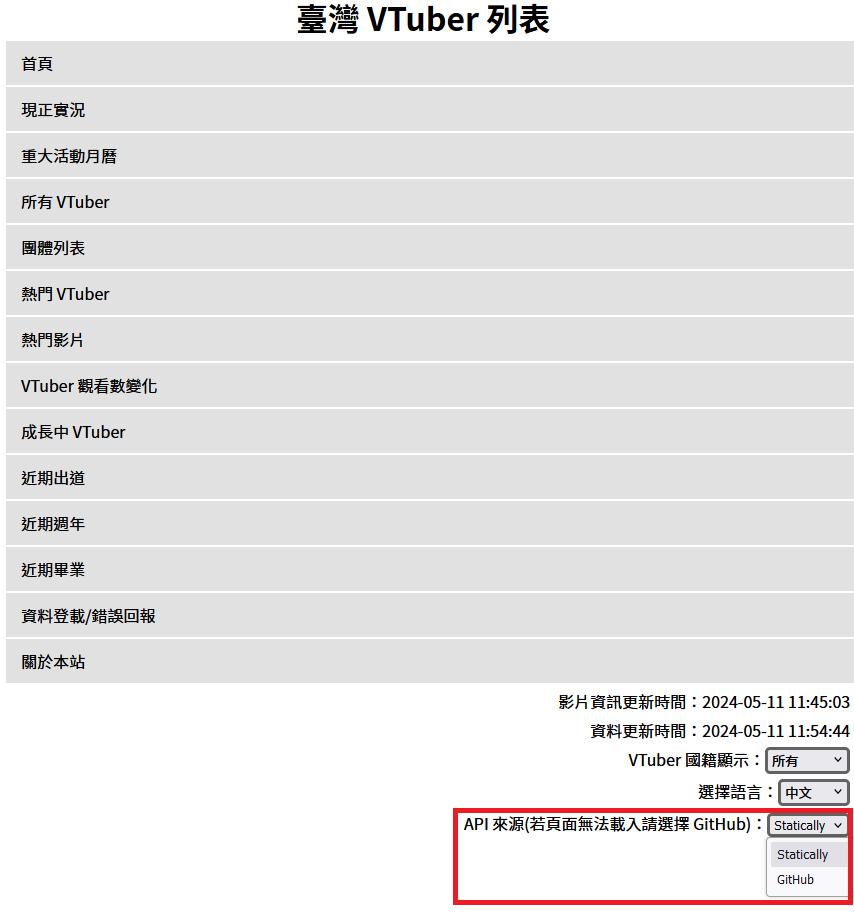
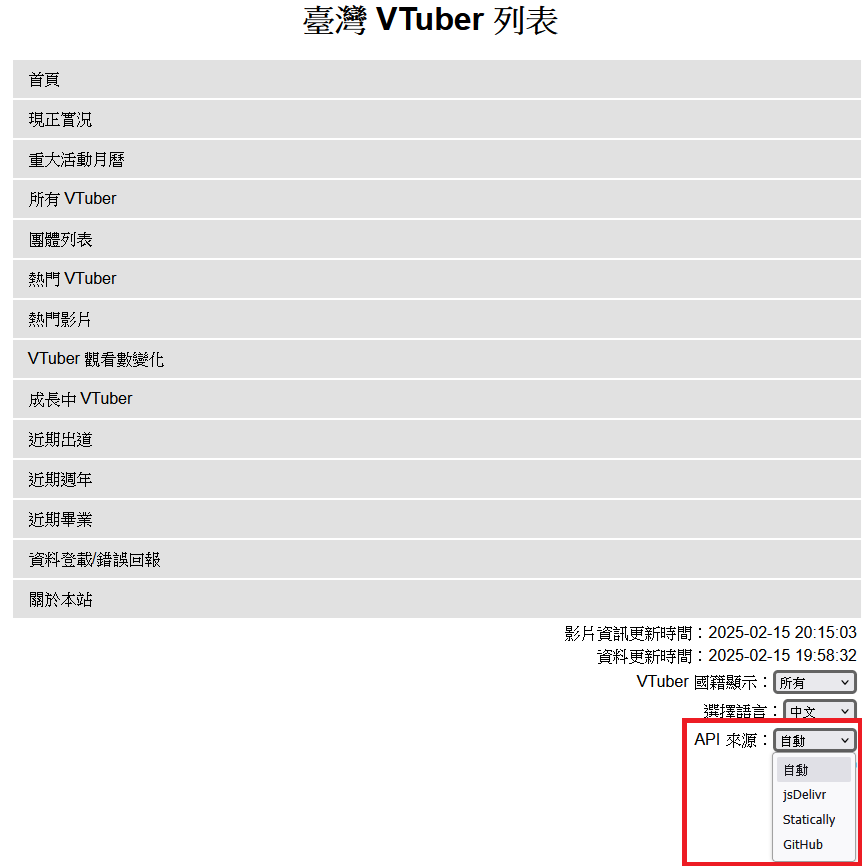
docs: update images

Changed region(s): [[0.0, 0.0, 1.0, 1.0], [0.9742, 0.343, 1.0, 0.4053]]

diff --git a/profile/README_ARCHITECTURE.md b/profile/README_ARCHITECTURE.md
@@ -10,6 +10,7 @@
   - [YouTube Data API](#youtube-data-api)
   - [Twitch API](#twitch-api)
   - [GitHub](#github)
+  - [jsDelivr](#jsdelivr)
   - [Statically](#statically)
 
 # 臺灣 VTuber 列表系統架構說明
@@ -75,9 +76,13 @@
 
 [臺灣 VTuber 列表網頁](#臺灣-vtuber-列表網頁)使用 [GitHub API](https://docs.github.com/en/rest) 存取 [VTuber 資料儲存 (JSON)](#vtuber-資料儲存-json) 檔案作為資料 API。
 
+## jsDelivr
+
+除了使用 GitHub API 外，[臺灣 VTuber 列表網頁](#臺灣-vtuber-列表網頁)也會使用 [jsDelivr](https://www.jsdelivr.com/) 提供的 API 存取 [VTuber 資料儲存 (JSON)](#vtuber-資料儲存-json)。
+
 ## Statically
 
 除了使用 GitHub API 外，[臺灣 VTuber 列表網頁](#臺灣-vtuber-列表網頁)也會使用 [Statically](https://statically.io/) 提供的 API 存取 [VTuber 資料儲存 (JSON)](#vtuber-資料儲存-json)。
 
-兩種方式提供了相同的 API 格式，因此使用者可以簡單地透過網頁調整 API 來源：
+三種方式提供了相同的 API 格式，因此使用者可以簡單地透過網頁調整 API 來源：
 ![](./image/api-source.png)
